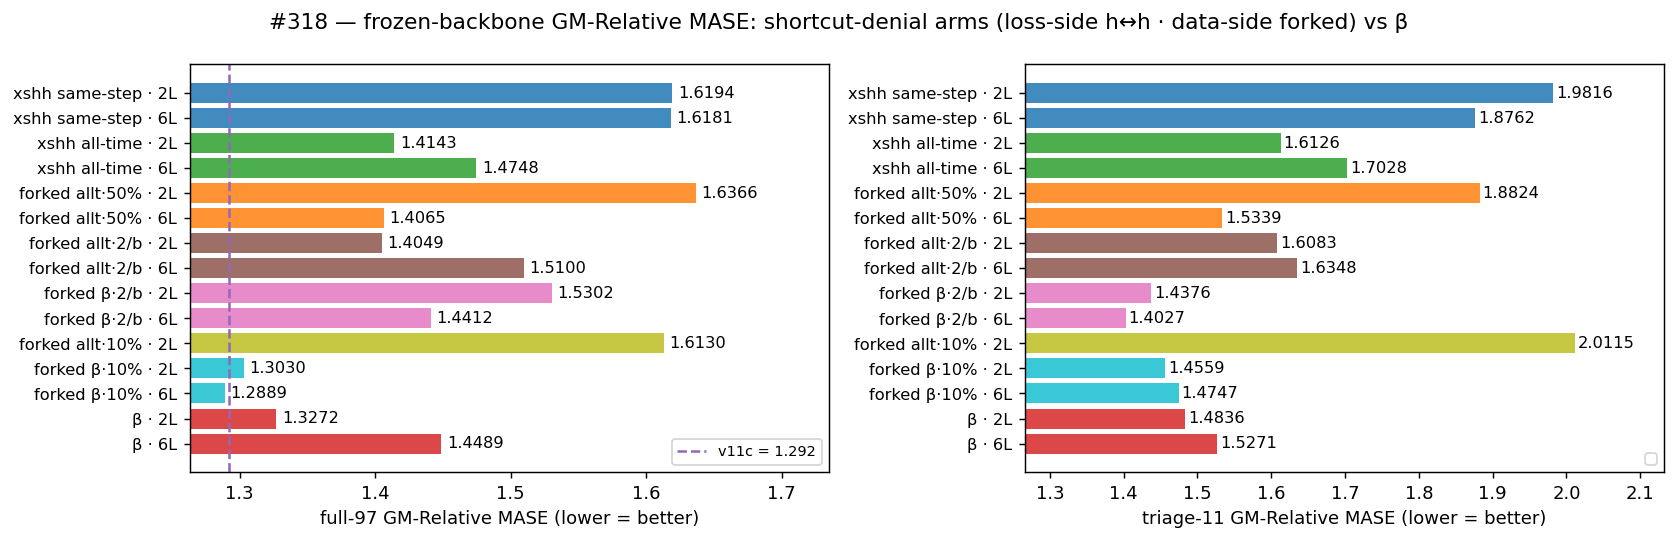
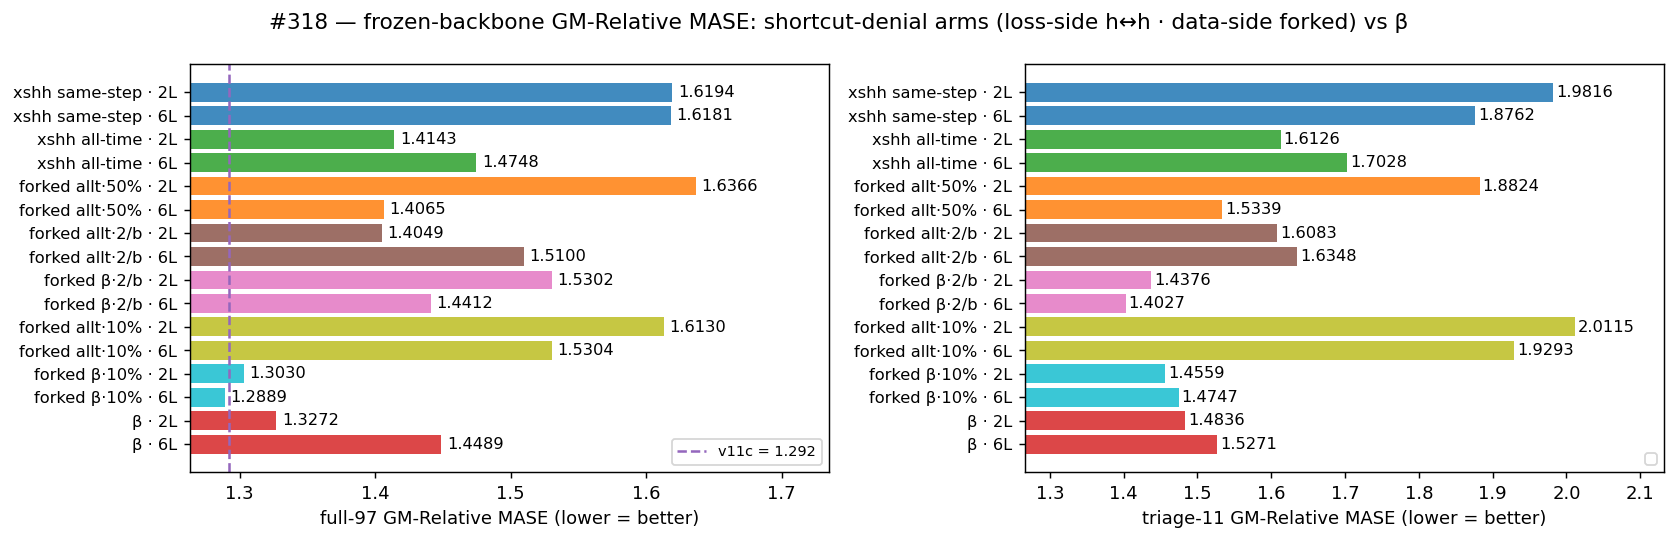
results(#318): all-time-10% 6L = 1.5304 — 10% forked sweep complete
Final 10% picture: forked injection is loss-specific. β: 0%→1.3272, 0.8%→1.5302,
10%→1.3030/1.2889 (best arm, 6L=v11c). all-time: hurts at every fraction
(0.8% 1.4049/1.5100, 10% 1.6130/1.5304, 50% 1.6366/1.4065). Data-side bullet
rewritten to the full sweep; unforked-synthetic control flagged as the remaining
clean test of β·10%'s gain. All 7 arms × 2 heads now complete.

diff --git a/experiments/2026-05-23_xseries_hh/RESULTS.md b/experiments/2026-05-23_xseries_hh/RESULTS.md
@@ -41,14 +41,14 @@ subset. Single seed per cell (line spread ≈ ±0.02, #307).*
   positional-code denier) is worst, broad all-time less so. A 6L head rescues
   neither (even β degrades 2L→6L), so the regression is in the **backbone** —
   what different series share at a step is forecastably useful, not a free code.
-- **Data-side (forked) does not survive isolation.** At a 50% synthetic mix the
-  fork looked best-of-6L (1.4065); but cutting it to one pair per 256-batch removes
-  the win — forked·allt·2/b 1.4049 (2L, ≈ all-time) / **1.5100** (6L, *worse* than
-  all-time 1.4748), forked·β·2/b 1.5302 / 1.4412. So the 6L gain tracked the
-  synthetic-data *fraction* (50% vs 0.8%), not the fork structure. A **10%** forked
-  injection on both losses is in flight to probe the mid-range (0.8% → 10% → 50%);
-  a 50% *unforked*-synthetic control would split synthetic-data benefit from the
-  fork — the clean next step.
+- **Data-side (forked): the gain is specific to β + ≈10% injection.** Sweeping the
+  forked fraction is non-monotonic and loss-dependent. On **β** it peaks at 10%:
+  0% (β) 1.3272 → 0.8% 1.5302 → **10% 1.3030 (2L) / 1.2889 (6L = v11c)** — the best
+  arm here. On the **all-time** loss the fork only hurts at every fraction
+  (0.8% 1.4049/1.5100, 10% 1.6130/1.5304, 50% 1.6366/1.4065); the 50%·6L 1.4065 that
+  first looked like a win was a synthetic-data-fraction confound (its 0.8% isolation
+  gave 1.5100). A 50% **unforked-synthetic** control is still the clean test of
+  whether β·10%'s gain is the fork structure or just ~10% synthetic data.
 
 ### Per-domain (full-97, best q-head per arm)
 
@@ -134,7 +134,7 @@ seasonal-naive 1.0.
 | data-side · forked β·2/b | 2L | 1.5302 | 1.4376 | +15.3% |
 | data-side · forked β·2/b | 6L | 1.4412 | 1.4027 | +8.6% |
 | data-side · forked allt·10% | 2L | 1.6130 | 2.0115 | +21.5% |
-| data-side · forked allt·10% | 6L | *in flight* | *in flight* | — |
+| data-side · forked allt·10% | 6L | 1.5304 | 1.9293 | +15.3% |
 | data-side · **forked β·10%** | 2L | **1.3030** | 1.4559 | **−1.8%** |
 | data-side · **forked β·10%** | 6L | **1.2889** | 1.4747 | **−2.9%** |
 | v11c (reference) | 2L | 1.292 | — | −2.7% |
